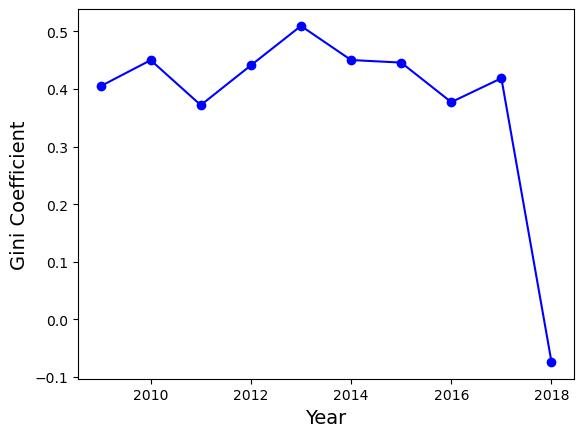
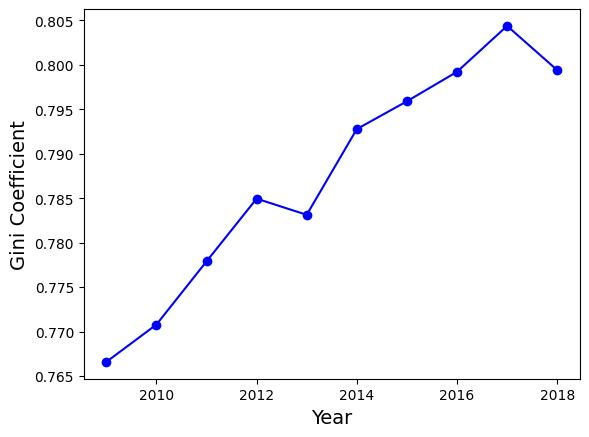
change gini

diff --git a/metrics.py b/metrics.py
@@ -110,10 +110,14 @@ def top_eigenvector_centrality(G, x=1):
 # 1.b Assortativity, WEIGHTED
 def gini_coef(G):
     deg_dist = np.array(list(dict(G.degree(weight="num_of_flights")).values()))
-    res = 0
+    res = 0.0
     for i in deg_dist:
         res += np.abs(deg_dist - i).sum()
-    return res / G.number_of_nodes() / deg_dist.sum()
+        # if res < 0:
+            # print(res)
+        # if np.abs(deg_dist - i).sum() < 0:
+        #     print(np.abs(deg_dist - i).sum())
+    return res / G.number_of_nodes() / deg_dist.sum() / 2
 
 
 # 1.c Network efficiency
